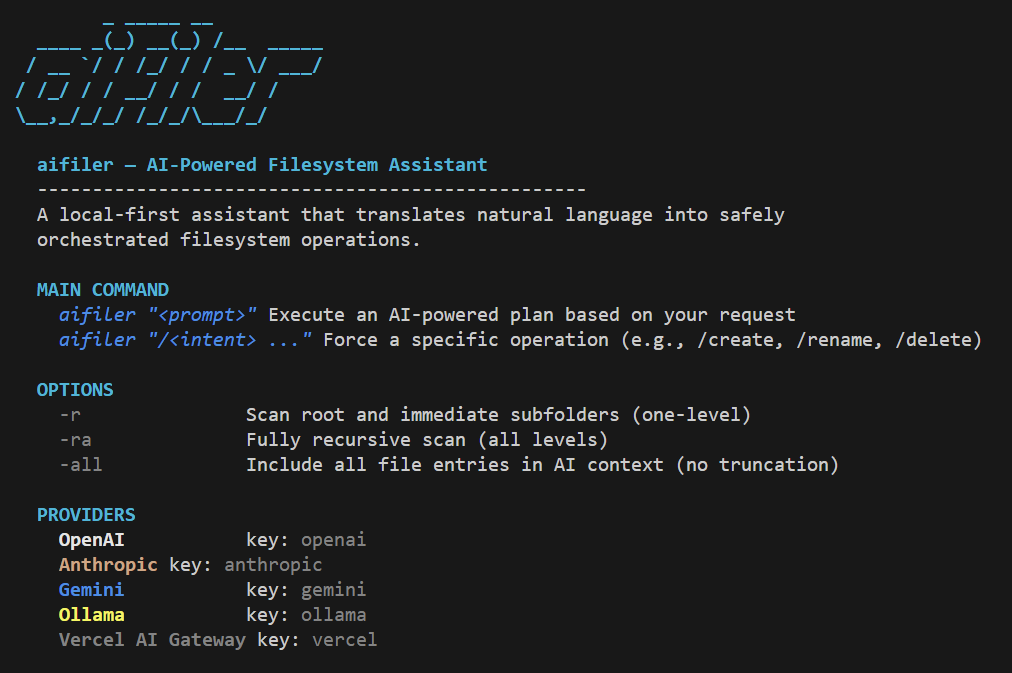
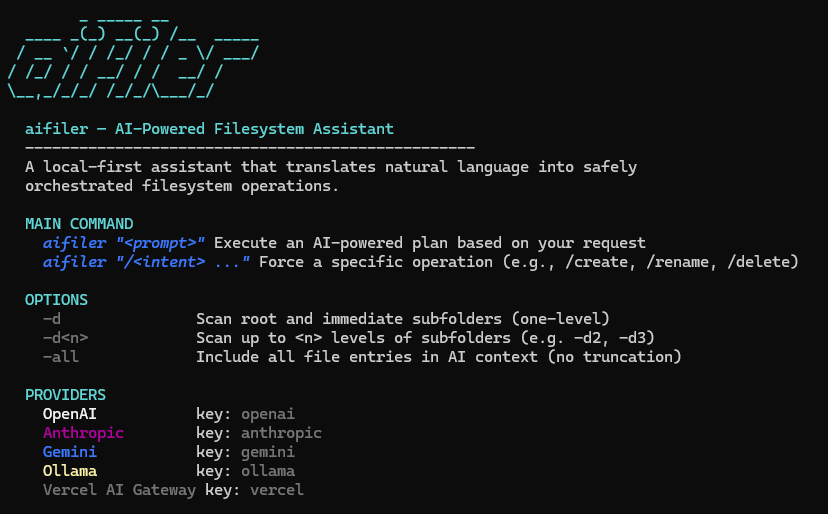
feat: implement interactive model selection and refactor CLI command structure

diff --git a/internal/cmds/cmd_config.go b/internal/cmds/cmd_config.go
@@ -12,6 +12,40 @@ import (
 	"github.com/manifoldco/promptui"
 )
 
+var selectTemplates = &promptui.SelectTemplates{
+	FuncMap: promptui.FuncMap,
+	Label:   "{{ . }}",
+	Active:  "\u27a4 {{ . | cyan }}", // fallback for simple strings
+	Inactive: "  {{ . }}",
+	Selected: "\u2714 {{ . | green }}",
+	Details:  "",
+	Help:     "",
+}
+
+// providerItem is used to pass structured data to the select templates.
+type providerItem struct {
+	Name     string
+	Key      string
+	IsActive bool
+}
+
+// providerSelectTemplates defines how provider items are rendered.
+var providerSelectTemplates = &promptui.SelectTemplates{
+	FuncMap: promptui.FuncMap,
+	Label:   "{{ . }}",
+	Active:   "\u27a4 {{ .Name | cyan }} key: {{ .Key | faint }}{{ if .IsActive }} (active){{ end }}",
+	Inactive: "  {{ .Name }} key: {{ .Key | faint }}{{ if .IsActive }} (active){{ end }}",
+	Selected: "\u2714 {{ .Name | green }}",
+	Details:  "",
+	Help:     "",
+}
+
+func init() {
+	// Initialize custom primary color if needed, but 'cyan' is built-in and matches PrimaryColor.
+	// For better compatibility with Windows and to avoid the nesting bug, 
+	// we keep the templates clean.
+}
+
 // runList fetches and displays available models for the currently active provider.
 func (a *App) runList(ctx context.Context) int {
 	cfg, _ := core.LoadOrDefault()
@@ -52,11 +86,28 @@ func (a *App) runList(ctx context.Context) int {
 	}
 
 	sort.Strings(fetched)
-	core.HeaderStyle.Printf("  Available models for %s:\n\n", providerLabel)
-	for _, m := range fetched {
-		fmt.Printf("    %s\n", core.MutedStyle.Sprint(m))
+
+	selectPrompt := promptui.Select{
+		Label:     "Select default model",
+		Items:     fetched,
+		Size:      10,
+		Templates: selectTemplates,
+		HideHelp:  true,
 	}
-	fmt.Println()
+
+	_, selected, err := selectPrompt.Run()
+	if err != nil {
+		return 0
+	}
+
+	cfg.DefaultModel = selected
+	path, saveErr := core.Save(cfg)
+	if saveErr != nil {
+		core.ErrorStyle.Printf("%s Failed to save config: %v\n", core.ErrorIcon, saveErr)
+		return 1
+	}
+
+	core.SuccessStyle.Printf("%s Default model set to '%s' in %s\n", core.SuccessIcon, selected, path)
 	return 0
 }
 
@@ -64,21 +115,23 @@ func (a *App) runList(ctx context.Context) int {
 // It lets the user switch providers, set API keys, and browse models.
 func (a *App) runProvider() int {
 	cfg, _ := core.LoadOrDefault()
-
 	activeKey := strings.TrimSpace(cfg.DefaultProvider)
-	labels := make([]string, len(core.Providers))
+
+	items := make([]providerItem, len(core.Providers))
 	for i, p := range core.Providers {
-		label := p.DisplayName
-		if p.Key == activeKey {
-			label += " (active)"
+		items[i] = providerItem{
+			Name:     p.DisplayName,
+			Key:      p.Key,
+			IsActive: p.Key == activeKey,
 		}
-		labels[i] = label
 	}
 
 	selectPrompt := promptui.Select{
-		Label: "Select provider to configure",
-		Items: labels,
-		Size:  len(labels),
+		Label:     "Select provider to configure",
+		Items:     items,
+		Size:      len(items),
+		Templates: providerSelectTemplates,
+		HideHelp:  true,
 	}
 	idx, _, err := selectPrompt.Run()
 	if err != nil {
@@ -89,9 +142,11 @@ func (a *App) runProvider() int {
 	// Ask what to do with the chosen provider.
 	actions := []string{"Set as active provider", "Set API key", "Set active + update API key", "Clear API key", "Cancel"}
 	actionPrompt := promptui.Select{
-		Label: fmt.Sprintf("Action for %s", chosen.DisplayName),
-		Items: actions,
-		Size:  len(actions),
+		Label:     fmt.Sprintf("Action for %s", chosen.DisplayName),
+		Items:     actions,
+		Size:      len(actions),
+		Templates: selectTemplates,
+		HideHelp:  true,
 	}
 	actionIdx, _, err := actionPrompt.Run()
 	if err != nil || actionIdx == len(actions)-1 {

diff --git a/internal/cmds/app.go b/internal/cmds/app.go
@@ -4,6 +4,7 @@ package cmds
 import (
 	"context"
 	"fmt"
+	"strconv"
 	"strings"
 
 	"aifiler/internal/api"
@@ -33,11 +34,16 @@ func (a *App) Run(ctx context.Context, args []string) int {
 
 	var remainingArgs []string
 	for _, arg := range args {
+		if strings.HasPrefix(arg, "-d") {
+			if len(arg) == 2 {
+				a.maxDepth = 2 // One level of subfolders
+			} else if n, err := strconv.Atoi(arg[2:]); err == nil && n >= 0 {
+				a.maxDepth = n + 1
+			}
+			continue
+		}
+
 		switch arg {
-		case "-r":
-			a.maxDepth = 2
-		case "-ra":
-			a.maxDepth = 0
 		case "-all":
 			a.showAll = true
 		default:
@@ -55,8 +61,6 @@ func (a *App) Run(ctx context.Context, args []string) int {
 	case "help", "-h", "--help":
 		a.printHelp()
 		return 0
-	case "doctor":
-		return a.runDoctor()
 	case "list":
 		return a.runList(ctx)
 	case "provider":
@@ -91,8 +95,8 @@ func (a *App) printHelp() {
 	fmt.Println()
 
 	core.HeaderStyle.Println("  OPTIONS")
-	fmt.Printf("    %-25s %s\n", core.MutedStyle.Sprint("-r"), "Scan root and immediate subfolders (one-level)")
-	fmt.Printf("    %-25s %s\n", core.MutedStyle.Sprint("-ra"), "Fully recursive scan (all levels)")
+	fmt.Printf("    %-25s %s\n", core.MutedStyle.Sprint("-d"), "Scan root and immediate subfolders (one-level)")
+	fmt.Printf("    %-25s %s\n", core.MutedStyle.Sprint("-d<n>"), "Scan up to <n> levels of subfolders (e.g. -d2, -d3)")
 	fmt.Printf("    %-25s %s\n", core.MutedStyle.Sprint("-all"), "Include all file entries in AI context (no truncation)")
 	fmt.Println()
 
@@ -111,14 +115,13 @@ func (a *App) printHelp() {
 	fmt.Printf("    %-25s %s\n", core.MutedStyle.Sprint("provider"), "Switch provider, set API keys, browse models")
 	fmt.Printf("    %-25s %s\n", core.MutedStyle.Sprint("history"), "View recent AI operations")
 	fmt.Printf("    %-25s %s\n", core.MutedStyle.Sprint("undo"), "Revert the last applied AI plan")
-	fmt.Printf("    %-25s %s\n", core.MutedStyle.Sprint("doctor"), "Show runtime diagnostics")
 	fmt.Printf("    %s\n", core.MutedStyle.Sprintf("Config file: %s", core.ConfigPath()))
 	fmt.Println()
 
 	core.HeaderStyle.Println("  EXAMPLES")
 	fmt.Println("    " + core.MutedStyle.Sprint("aifiler \"create a clean src layout with README\""))
-	fmt.Println("    " + core.MutedStyle.Sprint("aifiler -r \"rename all .js files to .ts\""))
-	fmt.Println("    " + core.MutedStyle.Sprint("aifiler -ra -all \"search for sensitive hardcoded keys\""))
+	fmt.Println("    " + core.MutedStyle.Sprint("aifiler -d \"rename all .js files to .ts\""))
+	fmt.Println("    " + core.MutedStyle.Sprint("aifiler -d3 -all \"search for sensitive hardcoded keys\""))
 	fmt.Println("    " + core.MutedStyle.Sprint("aifiler \"/delete temp log files\""))
 	fmt.Println()
 }
@@ -126,7 +129,7 @@ func (a *App) printHelp() {
 func (a *App) newClient(providerOverride, modelOverride string) (core.Client, string, string, error) {
 	cfg, err := core.LoadOrDefault()
 	if err != nil {
-		return nil, "", "", fmt.Errorf("%s failed to load config: %w\n  %s Tip: Check permissions or run 'aifiler doctor'", core.ErrorIcon, err, core.InfoIcon)
+		return nil, "", "", fmt.Errorf("%s failed to load config: %w\n  %s Tip: Check permissions or run 'aifiler provider'", core.ErrorIcon, err, core.InfoIcon)
 	}
 
 	provider := strings.TrimSpace(providerOverride)

diff --git a/internal/core/providers.go b/internal/core/providers.go
@@ -28,7 +28,7 @@ var Providers = []Provider{
 		Key:            "anthropic",
 		DisplayName:    "Anthropic",
 		RequiresAPIKey: true,
-		Style:          color.RGB(212, 164, 128).Add(color.Bold),
+		Style:          color.New(color.FgHiMagenta, color.Bold),
 	},
 	{
 		Key:            "gemini",

diff --git a/README.md b/README.md
@@ -32,7 +32,7 @@ AI-powered local Filesystem Assistant. Instead of manual sorting and naming, jus
 ### Windows
 
 ```batch
-:: Start the interactive menu (Build/Run/Doctor)
+:: Start the interactive menu (Build/Run)
 run.bat
 
 :: Or run directly with arguments
@@ -58,10 +58,9 @@ go build -o aifiler ./cmd/aifiler
 | `aifiler -r` | Extend context scan to immediate subfolders (one-level) |
 | `aifiler -ra` | Fully recursive scan for deep project context |
 | `aifiler provider` | Configure provider: switch active, set API keys, clear keys |
-| `aifiler list` | List available models for the active provider |
+| `aifiler list` | List and set the default model for the active provider |
 | `aifiler history` | View the log of recent operations |
 | `aifiler undo` | Revert the last applied plan |
-| `aifiler doctor` | Show runtime diagnostics |
 
 ---
 
